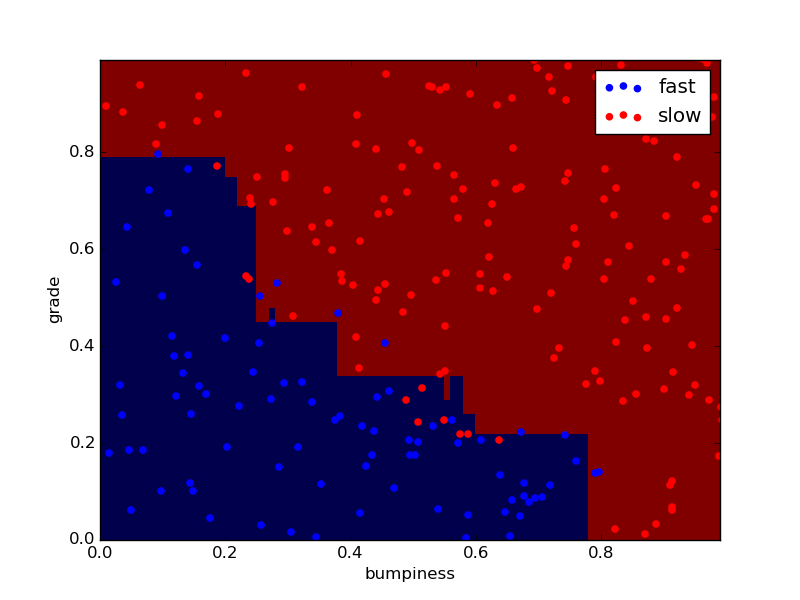
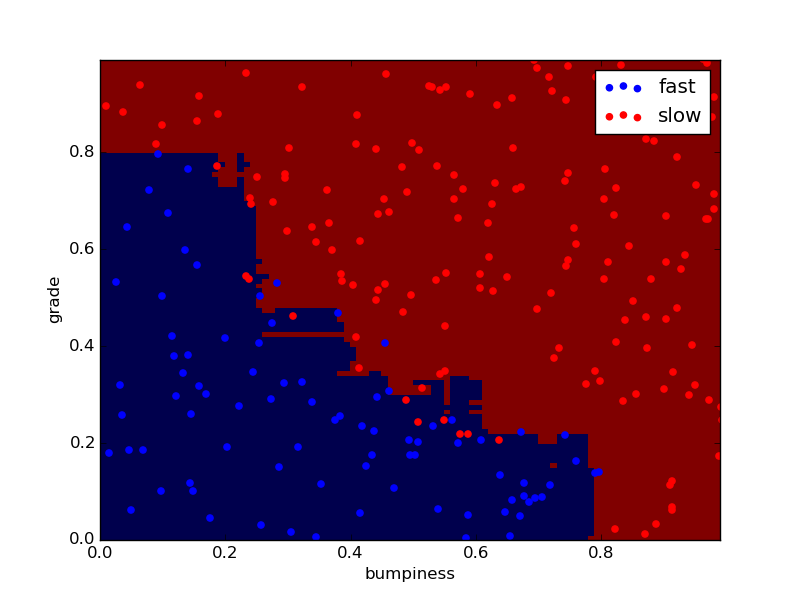
Add code for random forest

diff --git a/choose_your_own/randomforest.py b/choose_your_own/randomforest.py
@@ -1,0 +1,54 @@
+#!/usr/bin/python
+
+import matplotlib.pyplot as plt
+from prep_terrain_data import makeTerrainData
+from class_vis import prettyPicture
+
+features_train, labels_train, features_test, labels_test = makeTerrainData()
+
+
+### the training data (features_train, labels_train) have both "fast" and "slow"
+### points mixed together--separate them so we can give them different colors
+### in the scatterplot and identify them visually
+grade_fast = [features_train[ii][0] for ii in range(0, len(features_train)) if labels_train[ii]==0]
+bumpy_fast = [features_train[ii][1] for ii in range(0, len(features_train)) if labels_train[ii]==0]
+grade_slow = [features_train[ii][0] for ii in range(0, len(features_train)) if labels_train[ii]==1]
+bumpy_slow = [features_train[ii][1] for ii in range(0, len(features_train)) if labels_train[ii]==1]
+
+
+#### initial visualization
+plt.xlim(0.0, 1.0)
+plt.ylim(0.0, 1.0)
+plt.scatter(bumpy_fast, grade_fast, color = "b", label="fast")
+plt.scatter(grade_slow, bumpy_slow, color = "r", label="slow")
+plt.legend()
+plt.xlabel("bumpiness")
+plt.ylabel("grade")
+plt.show()
+################################################################################
+
+
+### your code here!  name your classifier object clf if you want the 
+### visualization code (prettyPicture) to show you the decision boundary
+### Adaboost
+from sklearn.ensemble import RandomForestClassifier
+clf = RandomForestClassifier()
+print 'Training starts'
+clf = clf.fit(features_train, labels_train)
+print 'Training complete'
+
+print 'Beginning prediction'
+pred = clf.predict(features_test)
+print 'Prediction finishes'
+
+from sklearn.metrics import accuracy_score
+print 'Calculating Accuracy'
+accuracy = accuracy_score(labels_test, pred)
+print 'The accuracy is ', accuracy
+
+
+try:
+    print 'prettypic'
+    prettyPicture(clf, features_test, labels_test)
+except NameError:
+    pass
